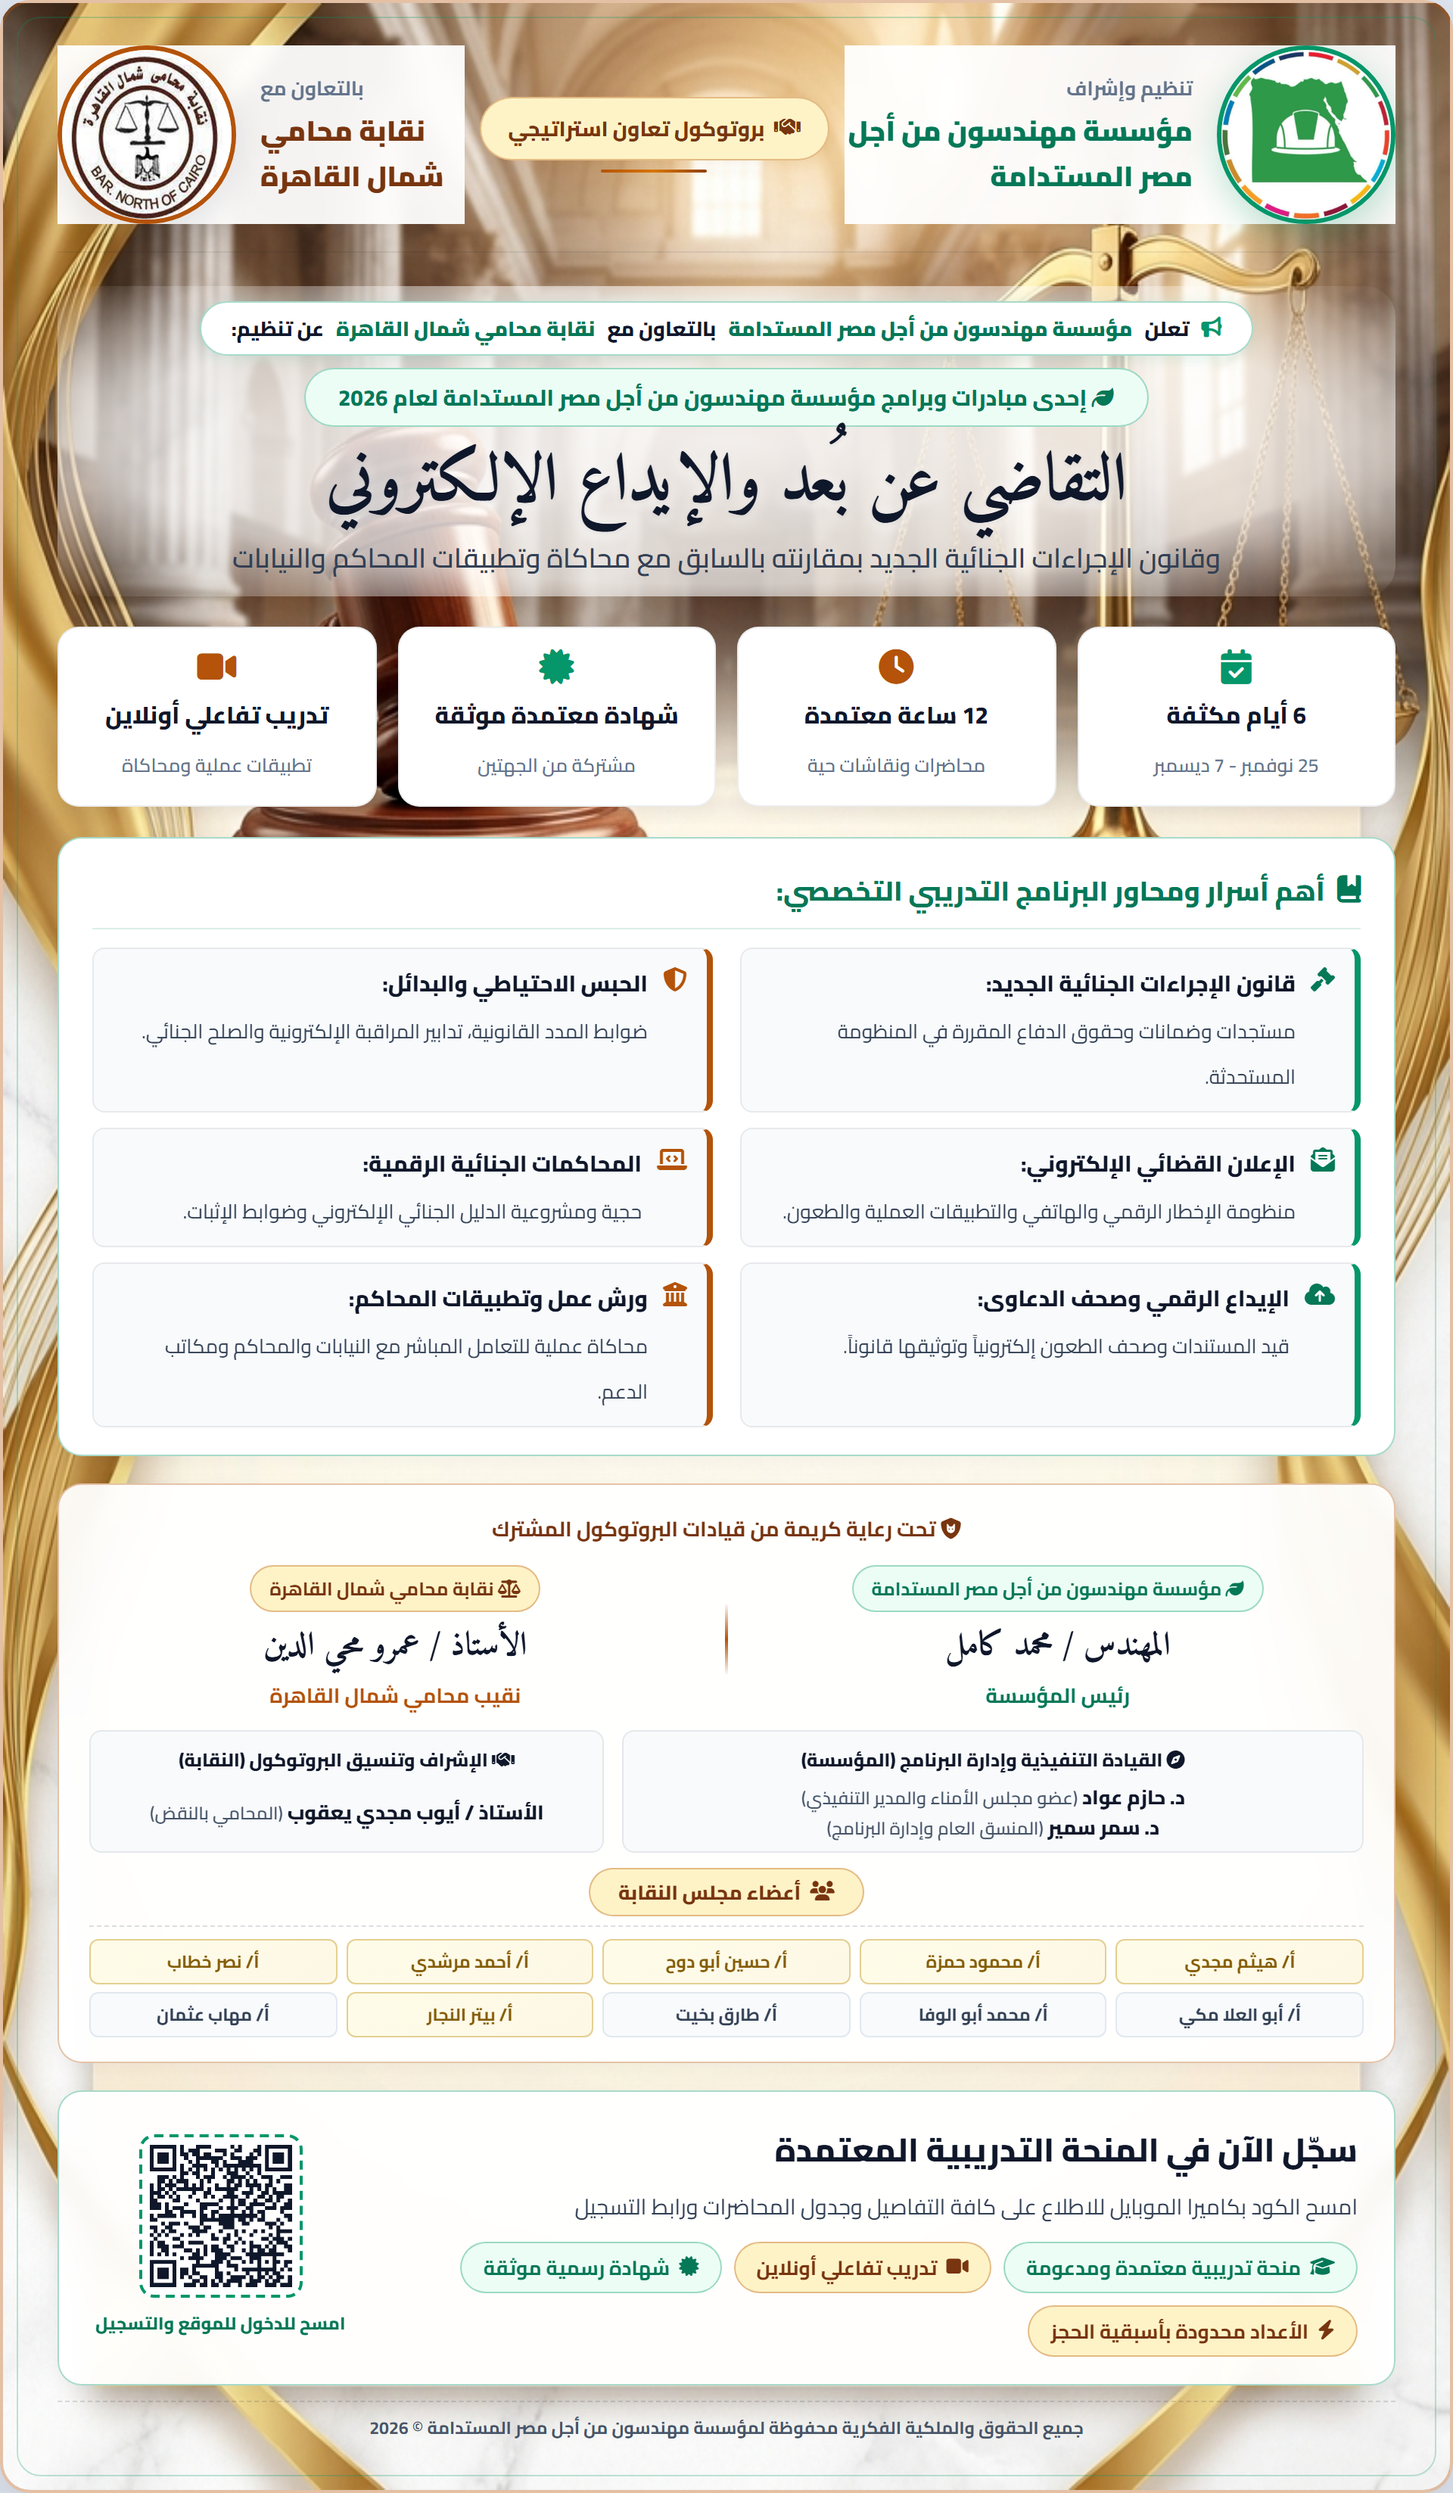
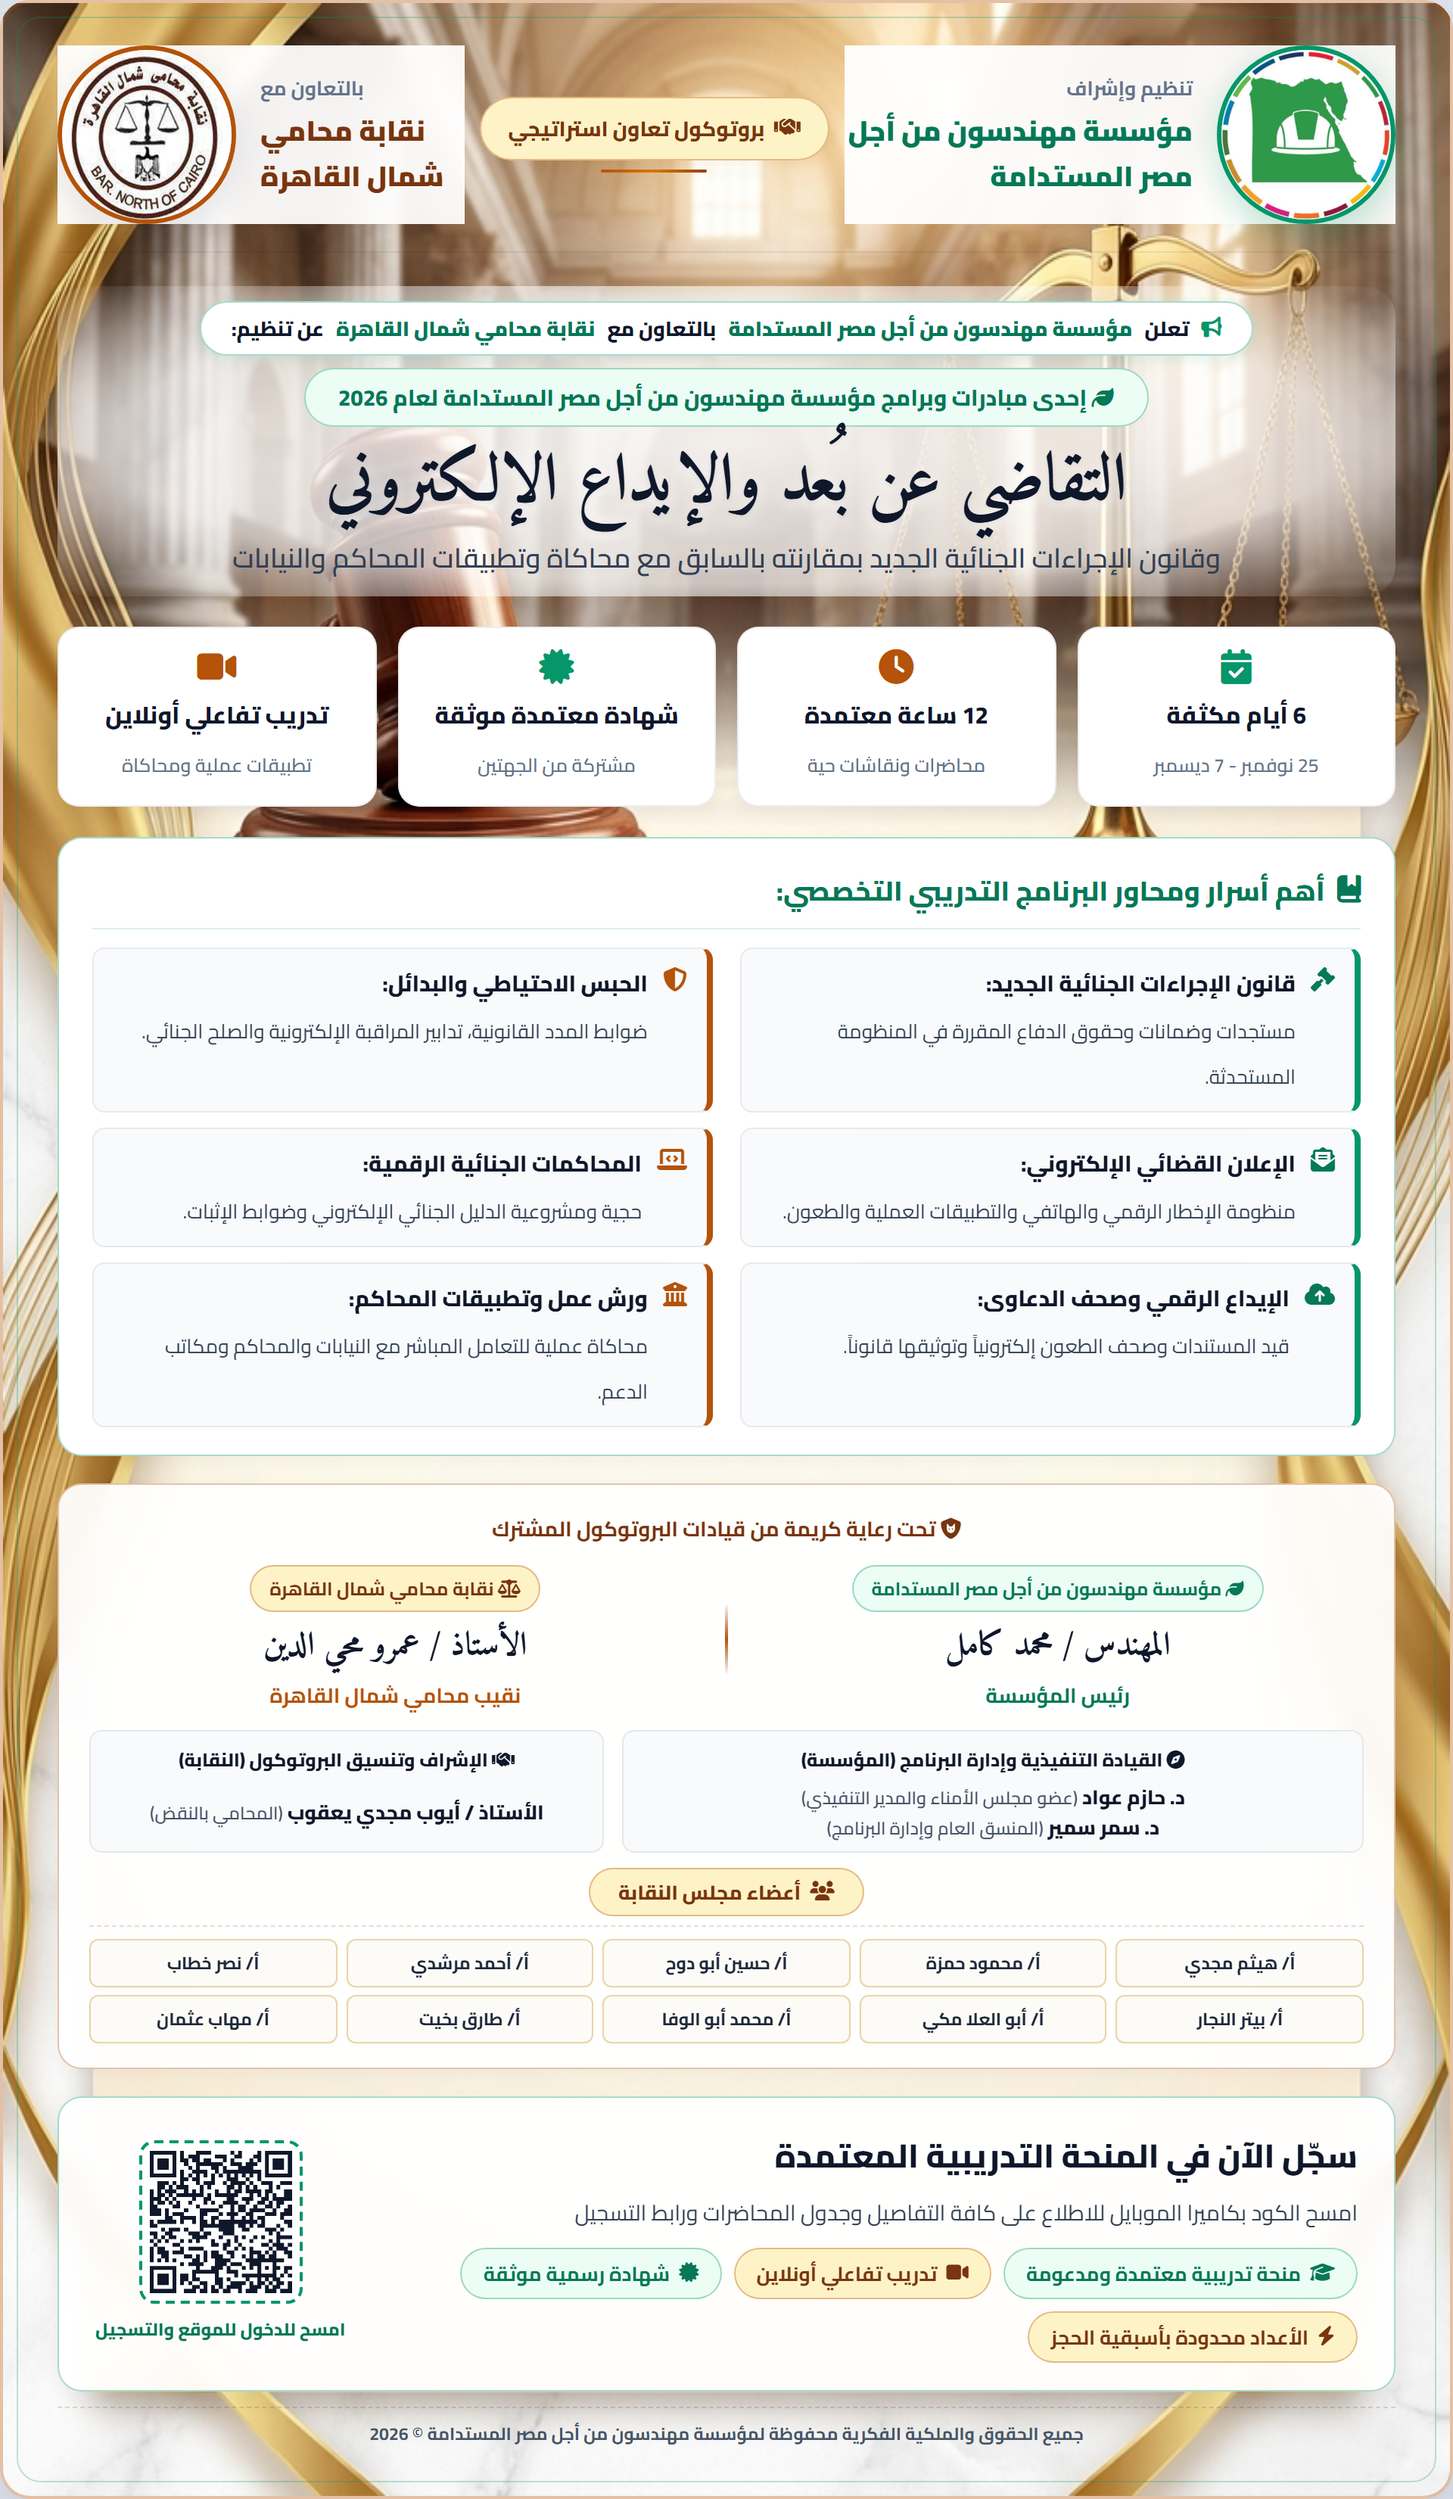
fix: unify all council member tags in poster to a single consistent style

diff --git a/poster.html b/poster.html
@@ -583,20 +583,16 @@ body {
 }
 
 
-.council-featured-pill {
-    background: linear-gradient(135deg, #fefce8, #fdf8e6) !important;
-    border: 1px solid rgba(197, 155, 39, 0.45) !important;
-    color: #855d08 !important;
-}
-
 .council-members-names span {
-    background: #f8fafc;
-    border: 1px solid #e2e8f0;
-    padding: 3px 4px;
+    background: #fdfbf7;
+    border: 1px solid rgba(197, 155, 39, 0.38);
+    color: #1e293b;
+    padding: 4px 6px;
     border-radius: 6px;
     font-weight: 700;
     text-align: center;
     white-space: nowrap;
+    box-shadow: 0 1px 3px rgba(0, 0, 0, 0.03);
 }
 
 /* Strategic Accreditation Banner (In Poster 2) */
@@ -950,15 +946,15 @@ body {
                 <i class="fa-solid fa-users"></i> أعضاء مجلس النقابة
             </div>
             <div class="council-members-names">
-                <span class="council-featured-pill">أ/ هيثم مجدي</span>
-                <span class="council-featured-pill">أ/ محمود حمزة</span>
-                <span class="council-featured-pill">أ/ حسين أبو دوح</span>
-                <span class="council-featured-pill">أ/ أحمد مرشدي</span>
-                <span class="council-featured-pill">أ/ نصر خطاب</span>
+                <span>أ/ هيثم مجدي</span>
+                <span>أ/ محمود حمزة</span>
+                <span>أ/ حسين أبو دوح</span>
+                <span>أ/ أحمد مرشدي</span>
+                <span>أ/ نصر خطاب</span>
+                <span>أ/ بيتر النجار</span>
                 <span>أ/ أبو العلا مكي</span>
                 <span>أ/ محمد أبو الوفا</span>
                 <span>أ/ طارق بخيت</span>
-                <span class="council-featured-pill">أ/ بيتر النجار</span>
                 <span>أ/ مهاب عثمان</span>
             </div>
 
